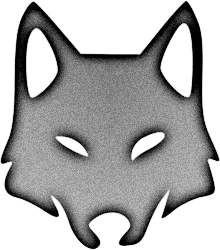
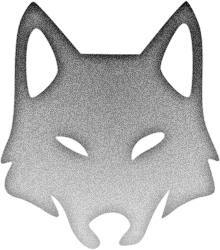
Make hero wolf head coarser, fainter, and fade into the background

diff --git a/index.html b/index.html
@@ -526,7 +526,7 @@
     }
 
     function dotField(canvas, opts) {
-      const S = 6;
+      const S = opts.step || 6;
       const ready = loadSource(opts.src);
       let dots = [];
 
@@ -550,7 +550,9 @@
               t = a * (opts.floor + (1 - opts.floor) * Math.pow(1 - lum, opts.curve)) * box.alpha;
             }
             if (t > 0.04 && hash(x * 0.7, y * 1.3) < opts.keep + (1 - opts.keep) * t) {
-              dots.push({ x, y, r: S * opts.size * Math.sqrt(t), a: opts.a0 + opts.a1 * t, d: hash(x, y) * 0.7 });
+              let k = Math.sqrt(t);
+              if (opts.levels) k = Math.max(1, Math.round(k * opts.levels)) / opts.levels;
+              dots.push({ x, y, r: S * opts.size * k, a: opts.a0 + opts.a1 * t, d: hash(x, y) * 0.7 });
             } else {
               const b = blob(x, y) - opts.ambientCut;
               if (b > 0 && hash(y, x) < b * 2.4) dots.push({ x, y, r: 0.9, a: 0.07 + b * 0.18, d: hash(x + 1, y) * 0.7 });
@@ -598,8 +600,8 @@
     }
 
     const heroField = dotField(document.getElementById('hero-dots'), {
-      src: '/wolf-head-dots.png',
-      floor: 0.22, curve: 1.6, keep: 0.45, size: 0.38, a0: 0.06, a1: 0.32,
+      src: '/wolf-head-dots.png?v=2',
+      step: 9, levels: 3, floor: 0.22, curve: 1.6, keep: 0.3, size: 0.36, a0: 0.03, a1: 0.14,
       ambientCut: 0.25,
       revealNow: true,
       place(w, h, ratio) {
